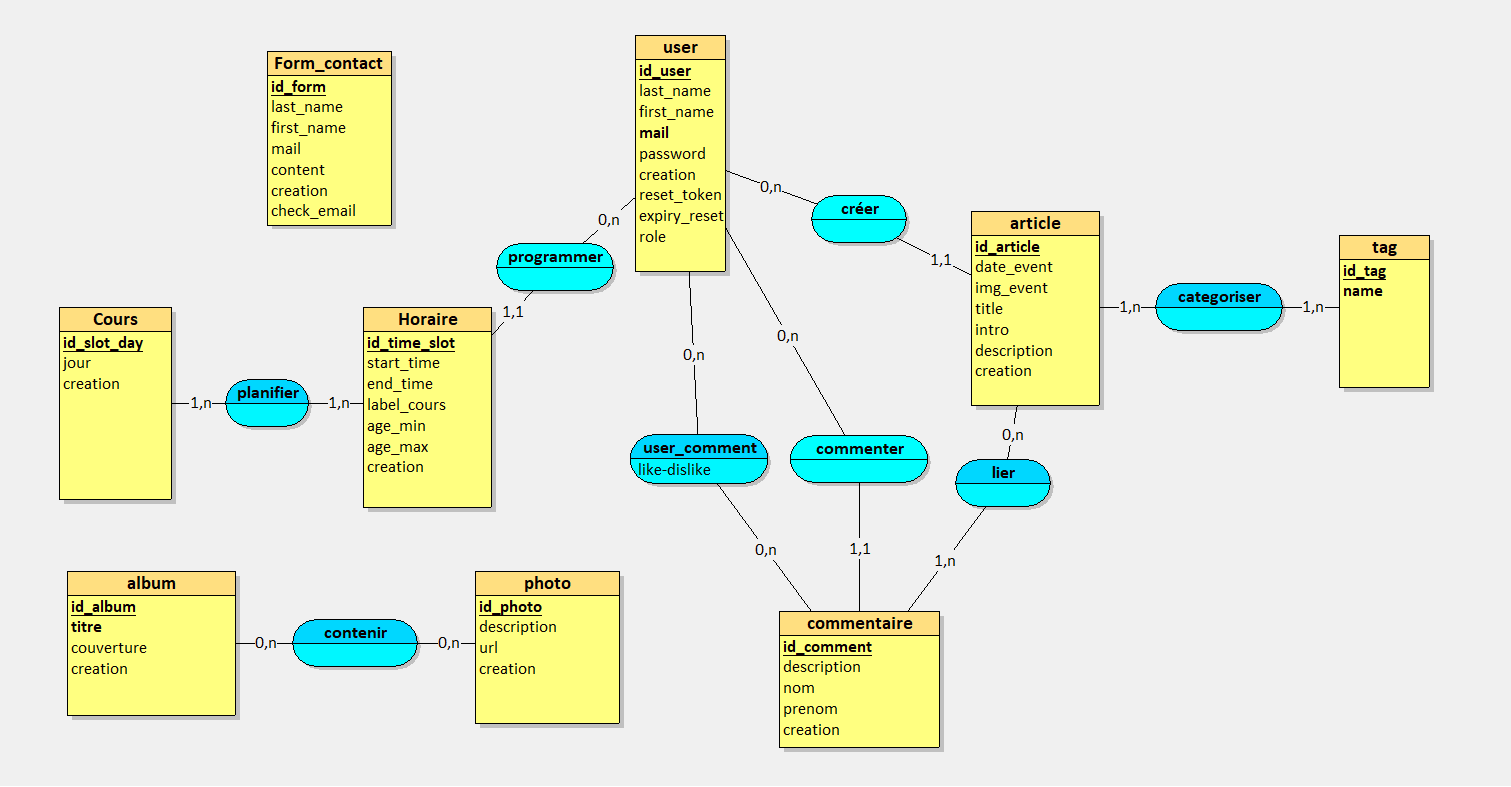
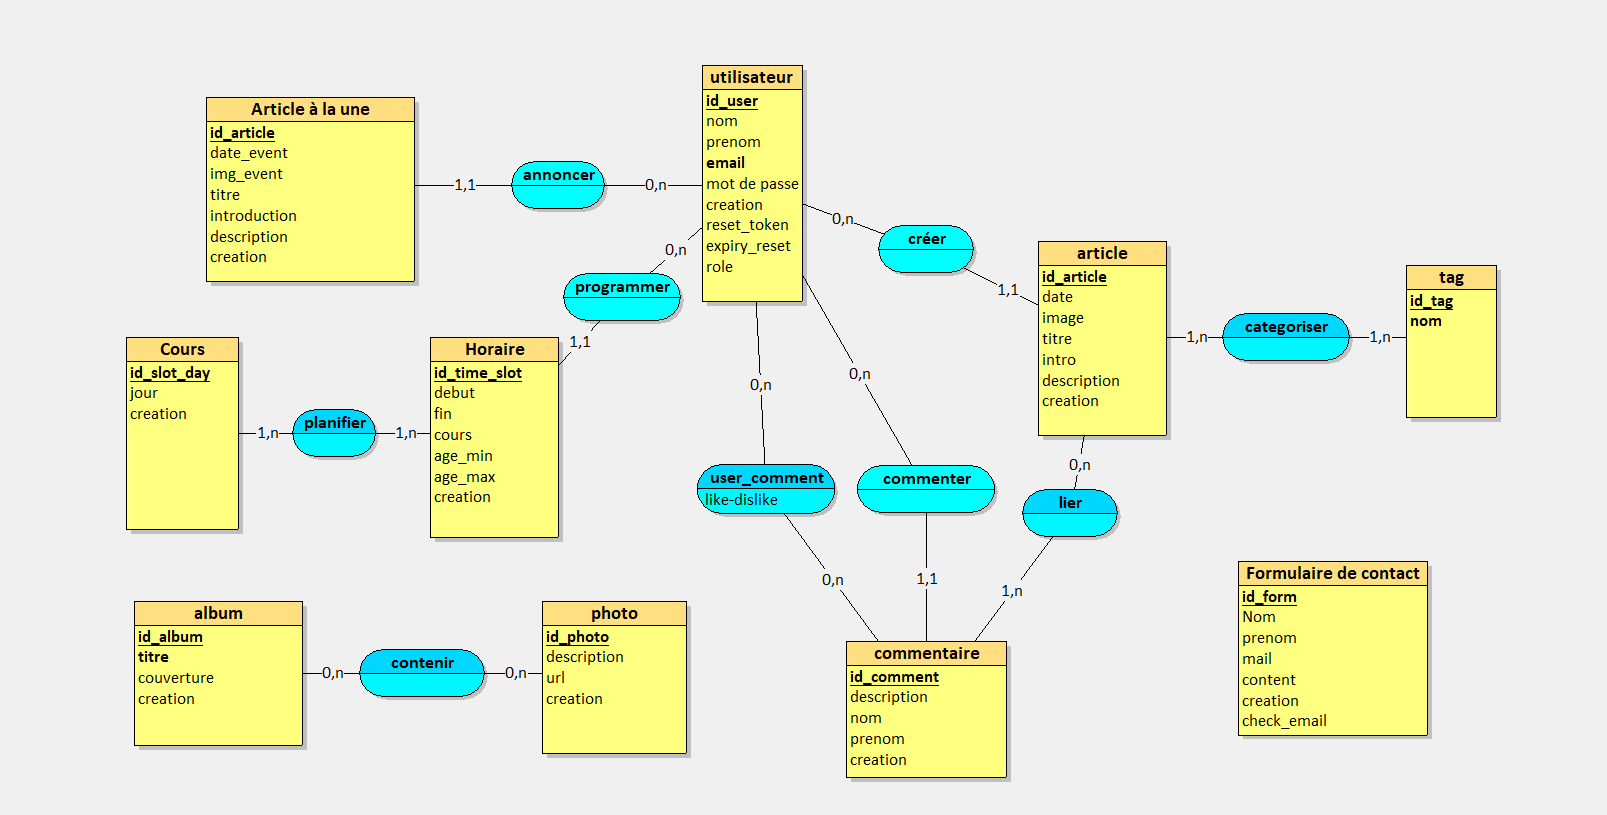
deploiement alwaysdata ok

diff --git a/assets/css/utilities.css b/assets/css/utilities.css
@@ -8,6 +8,14 @@
 
 .color-r    {color:red}
 
+#color-b    {color: #3db5ec;}
+
+#color-w    {color: #f0f8ff;}
+
+#color-bck  {color: #26374b;}
+
+#color-r    {color:red}
+
 /* ANCHOR BACKGROUND COLOR */
 
 .bgc-b    {color: rgb(61, 181, 236);}

diff --git a/assets/css/custom.css b/assets/css/custom.css
@@ -71,6 +71,10 @@ a:hover{
   align-items: center;
 }
 
+.img-hero {
+  max-width: 1000px;
+  max-height: 500px;
+}
     
 /* <!-- ==========  FOOTER  ========== --> */
 footer {

diff --git a/contact.php b/contact.php
@@ -62,10 +62,10 @@
     ?>
     <main class="dflex jc-c ai-c ">  <!-- modale envoi mail avec succes -->
       <?php if ($success): ?>
-        <div id="succes-modal" class="modale">
+        <div class="modale">
             <div class="modaleCard">
-                <h2>Message envoyé !</h2>
-                <p>Merci de nous avoir contacté, nous ferons tout pour vous répondre dans les plus brefs délais. <br>
+                <h2 class="color-bck">Message envoyé !</h2>
+                <p class="color-bck">Merci de nous avoir contacté, nous ferons tout pour vous répondre dans les plus brefs délais. <br>
                   Vous allez etre redirigé vers la page d'accueil.
                 </p>
             </div>
@@ -73,10 +73,10 @@
       <?php endif; ?>
 
       <?php if (isset($errors['mail'])): ?>  <!-- modale erreur d'envoi mail -->
-        <div id="error-modal" class="modale" >
+        <div class="modale" >
             <div class="modaleCard">
                 <h2 class="color-r">Erreur d'envoi</h2>
-                <p>Une erreur est survenue, veuillez réessayer.</p>
+                <p class="color-bck">Une erreur est survenue, veuillez réessayer.</p>
                 <button onclick="document.getElementById('error-modal').remove()">Fermer</button>
             </div>
         </div>

diff --git a/index.php b/index.php
@@ -21,7 +21,7 @@
             <a href="#" class="underline">En savoir +</a>
           </div>
           <div>
-            <img src="assets/images/illustration.png" alt="Photo judo" class="color-w">
+            <img src="assets/images/two-judo-wrestlers-showing-their-technical-skills-fight-club.jpg" alt="Photo judo" class="color-w img-hero">
           </div>
         </div>
       </div>
